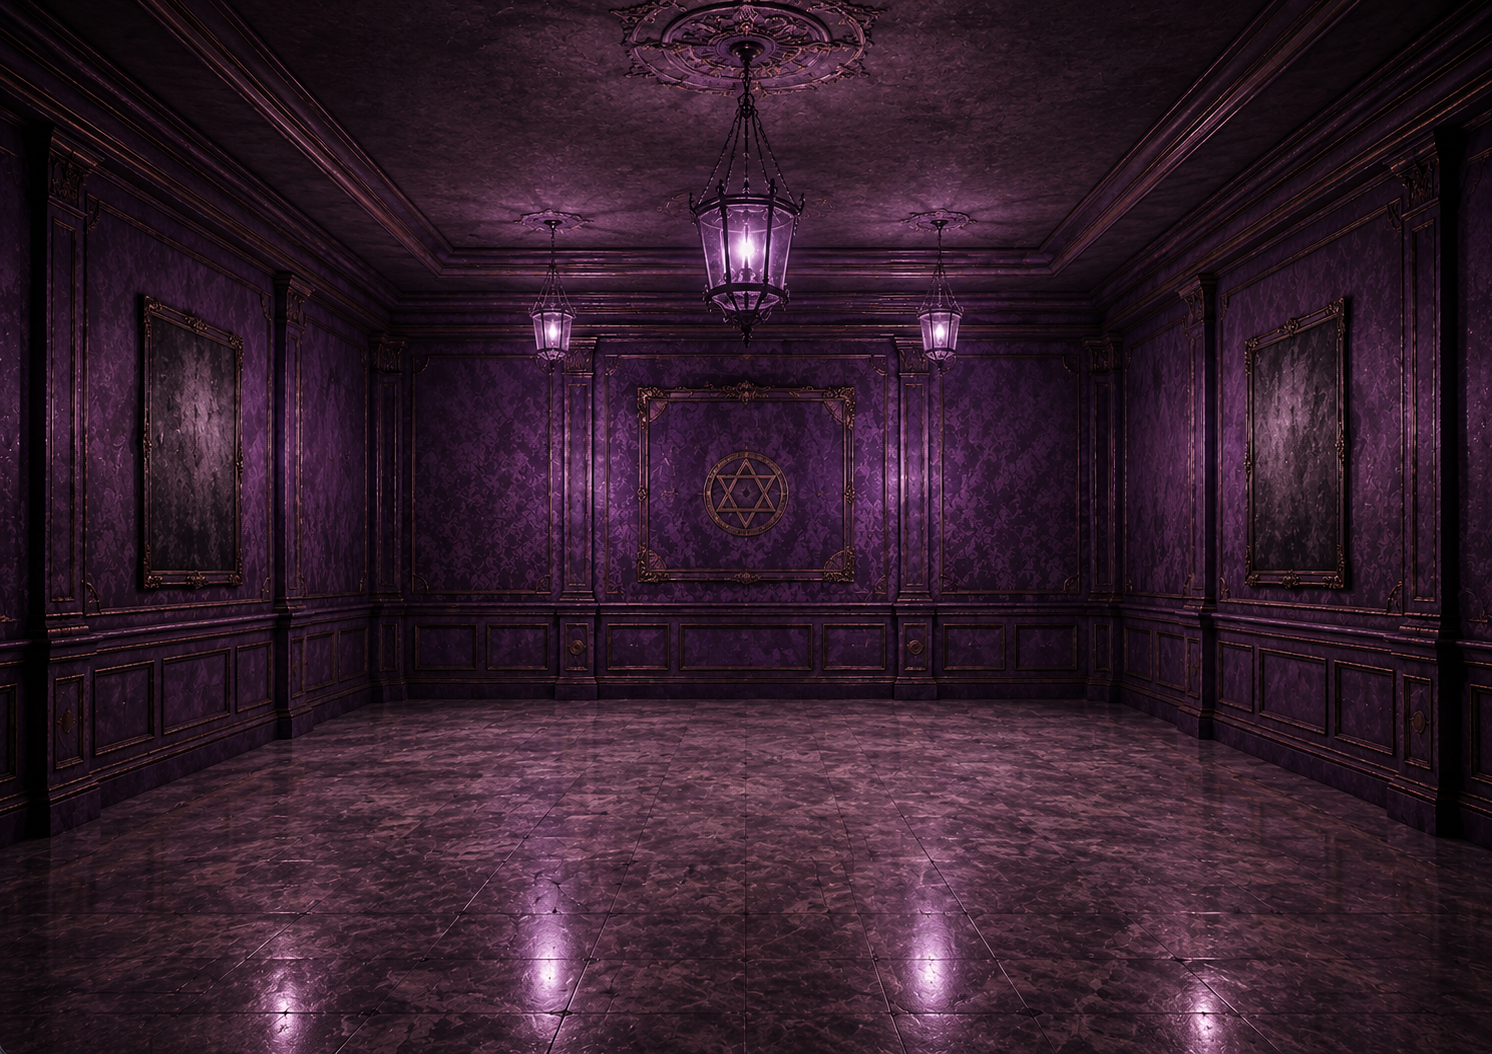
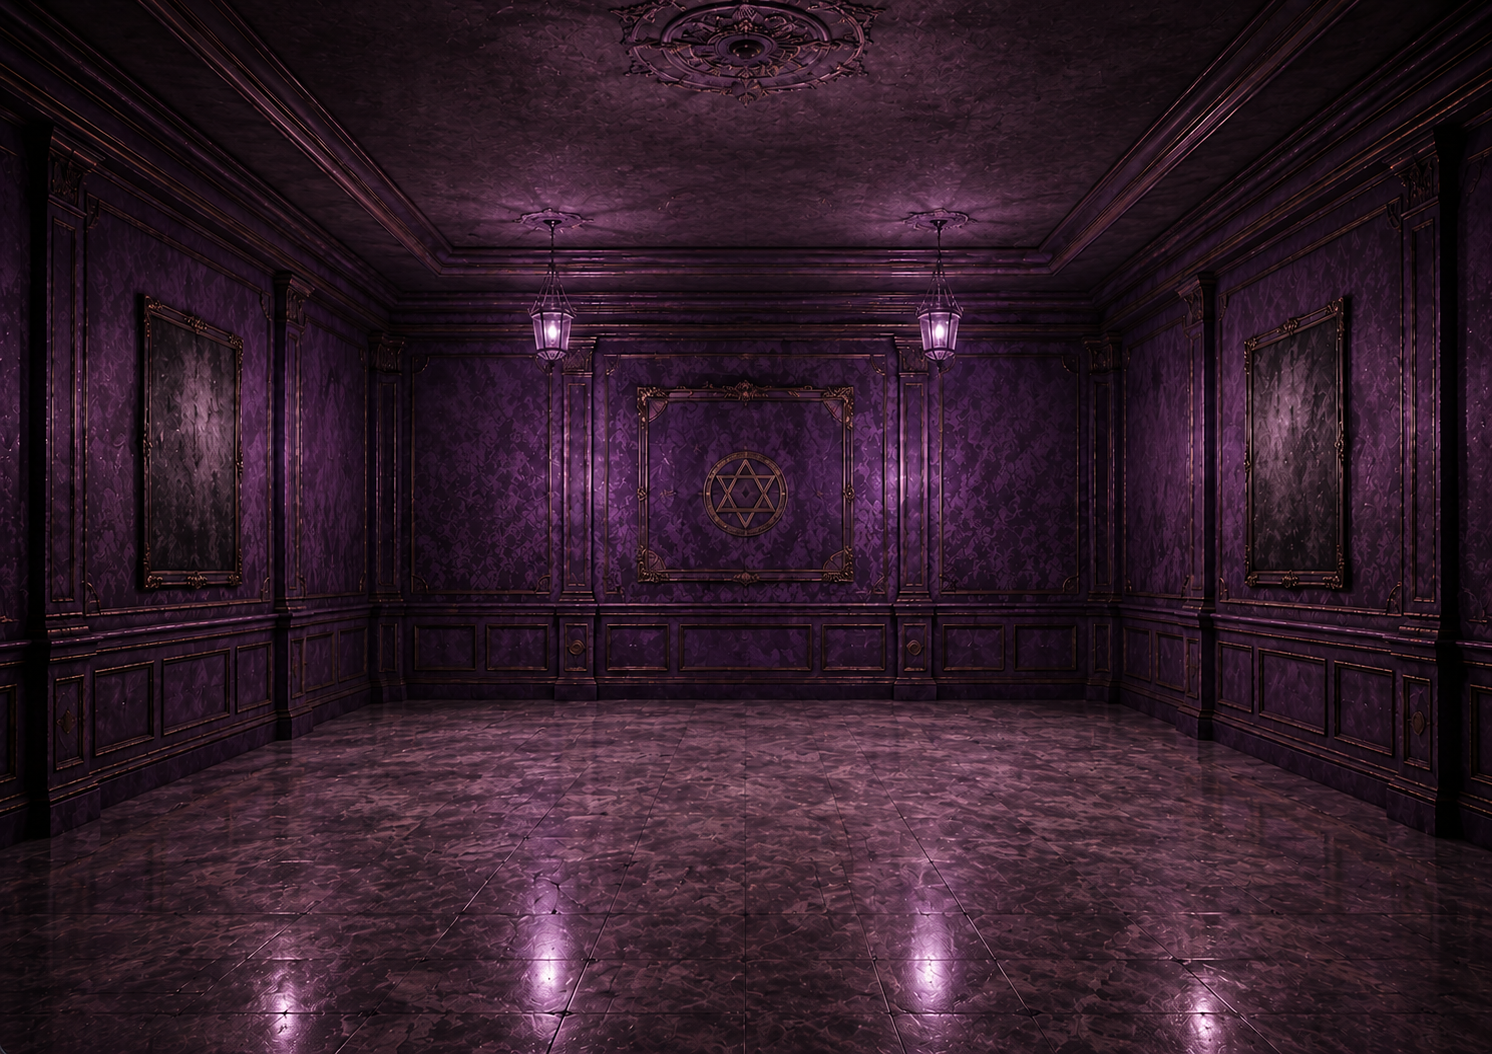
Fixed effects on buttons and resultmodals

diff --git a/client/src/components/DoorCard.css b/client/src/components/DoorCard.css
@@ -58,8 +58,7 @@
   filter: drop-shadow(0 0 6px rgba(255, 255, 235, 0.95))
     drop-shadow(0 0 14px rgba(255, 215, 0, 0.95))
     drop-shadow(0 0 30px rgba(255, 215, 0, 0.6));
-  border-top-right-radius: 2rem;
-  border-top-left-radius: 2rem;
+  /* keep same corner radii as .door-image-wrapper */
 }
 
 .door-image {
@@ -96,6 +95,11 @@
   height: 150px;
   object-fit: contain;
   z-index: 2;
+  transform-origin: center;
+}
+
+.door-image-wrapper:hover .door-lock {
+  animation: door-lock-shake 0.35s ease-in-out;
 }
 
 .door-button {
@@ -110,6 +114,11 @@
   transition: all 0.3s ease;
 }
 
+.door-button:hover {
+  transform: translateY(-3px);
+  box-shadow: 0 8px 18px rgba(0, 0, 0, 0.18);
+}
+
 .door-card:has(.door-image-wrapper--unlocked) .door-button {
   background: transparent;
   color: var(--Secondary);
@@ -118,4 +127,30 @@
 .door-card:has(.door-image-wrapper--unlocked) .door-button:hover {
   transform: translateY(-5px);
   box-shadow: 0 8px 16px rgba(255, 215, 0, 0.3);
+}
+
+@keyframes door-lock-shake {
+  0% {
+    transform: translate(-50%, -50%) rotate(0deg);
+  }
+
+  20% {
+    transform: translate(-52%, -50%) rotate(-6deg);
+  }
+
+  40% {
+    transform: translate(-48%, -50%) rotate(6deg);
+  }
+
+  60% {
+    transform: translate(-51%, -50%) rotate(-4deg);
+  }
+
+  80% {
+    transform: translate(-49%, -50%) rotate(4deg);
+  }
+
+  100% {
+    transform: translate(-50%, -50%) rotate(0deg);
+  }
 }

diff --git a/client/src/index.css b/client/src/index.css
@@ -59,6 +59,8 @@ body.bg-room2 {
 }
 
 .app-btn--white:hover {
+  transform: translateY(-2px);
+  box-shadow: 0 6px 14px rgba(0, 0, 0, 0.22);
   opacity: 0.92;
 }
 
@@ -69,8 +71,12 @@ body.bg-room2 {
 }
 
 .app-btn--red:hover {
+  transform: translateY(-2px);
+  box-shadow: 0 6px 14px rgba(0, 0, 0, 0.22);
   opacity: 0.92;
 }
+
+
 
 .app-input {
   padding: 0.95rem 1rem;

diff --git a/client/src/components/Modals/HintModal.css b/client/src/components/Modals/HintModal.css
@@ -70,6 +70,10 @@
   cursor: not-allowed;
 }
 
+.hint-modal__close:hover {
+  transform: translateY(-1px);
+}
+
 @media (max-width: 768px) {
   .hint-modal__card {
     width: 90vw;

diff --git a/client/src/components/Modals/ResultModal.css b/client/src/components/Modals/ResultModal.css
@@ -59,6 +59,10 @@
   line-height: 1;
 }
 
+.result-modal__close:hover {
+  transform: translateY(-1px);
+}
+
 .result-modal__title {
   margin: 0;
   text-align: center;